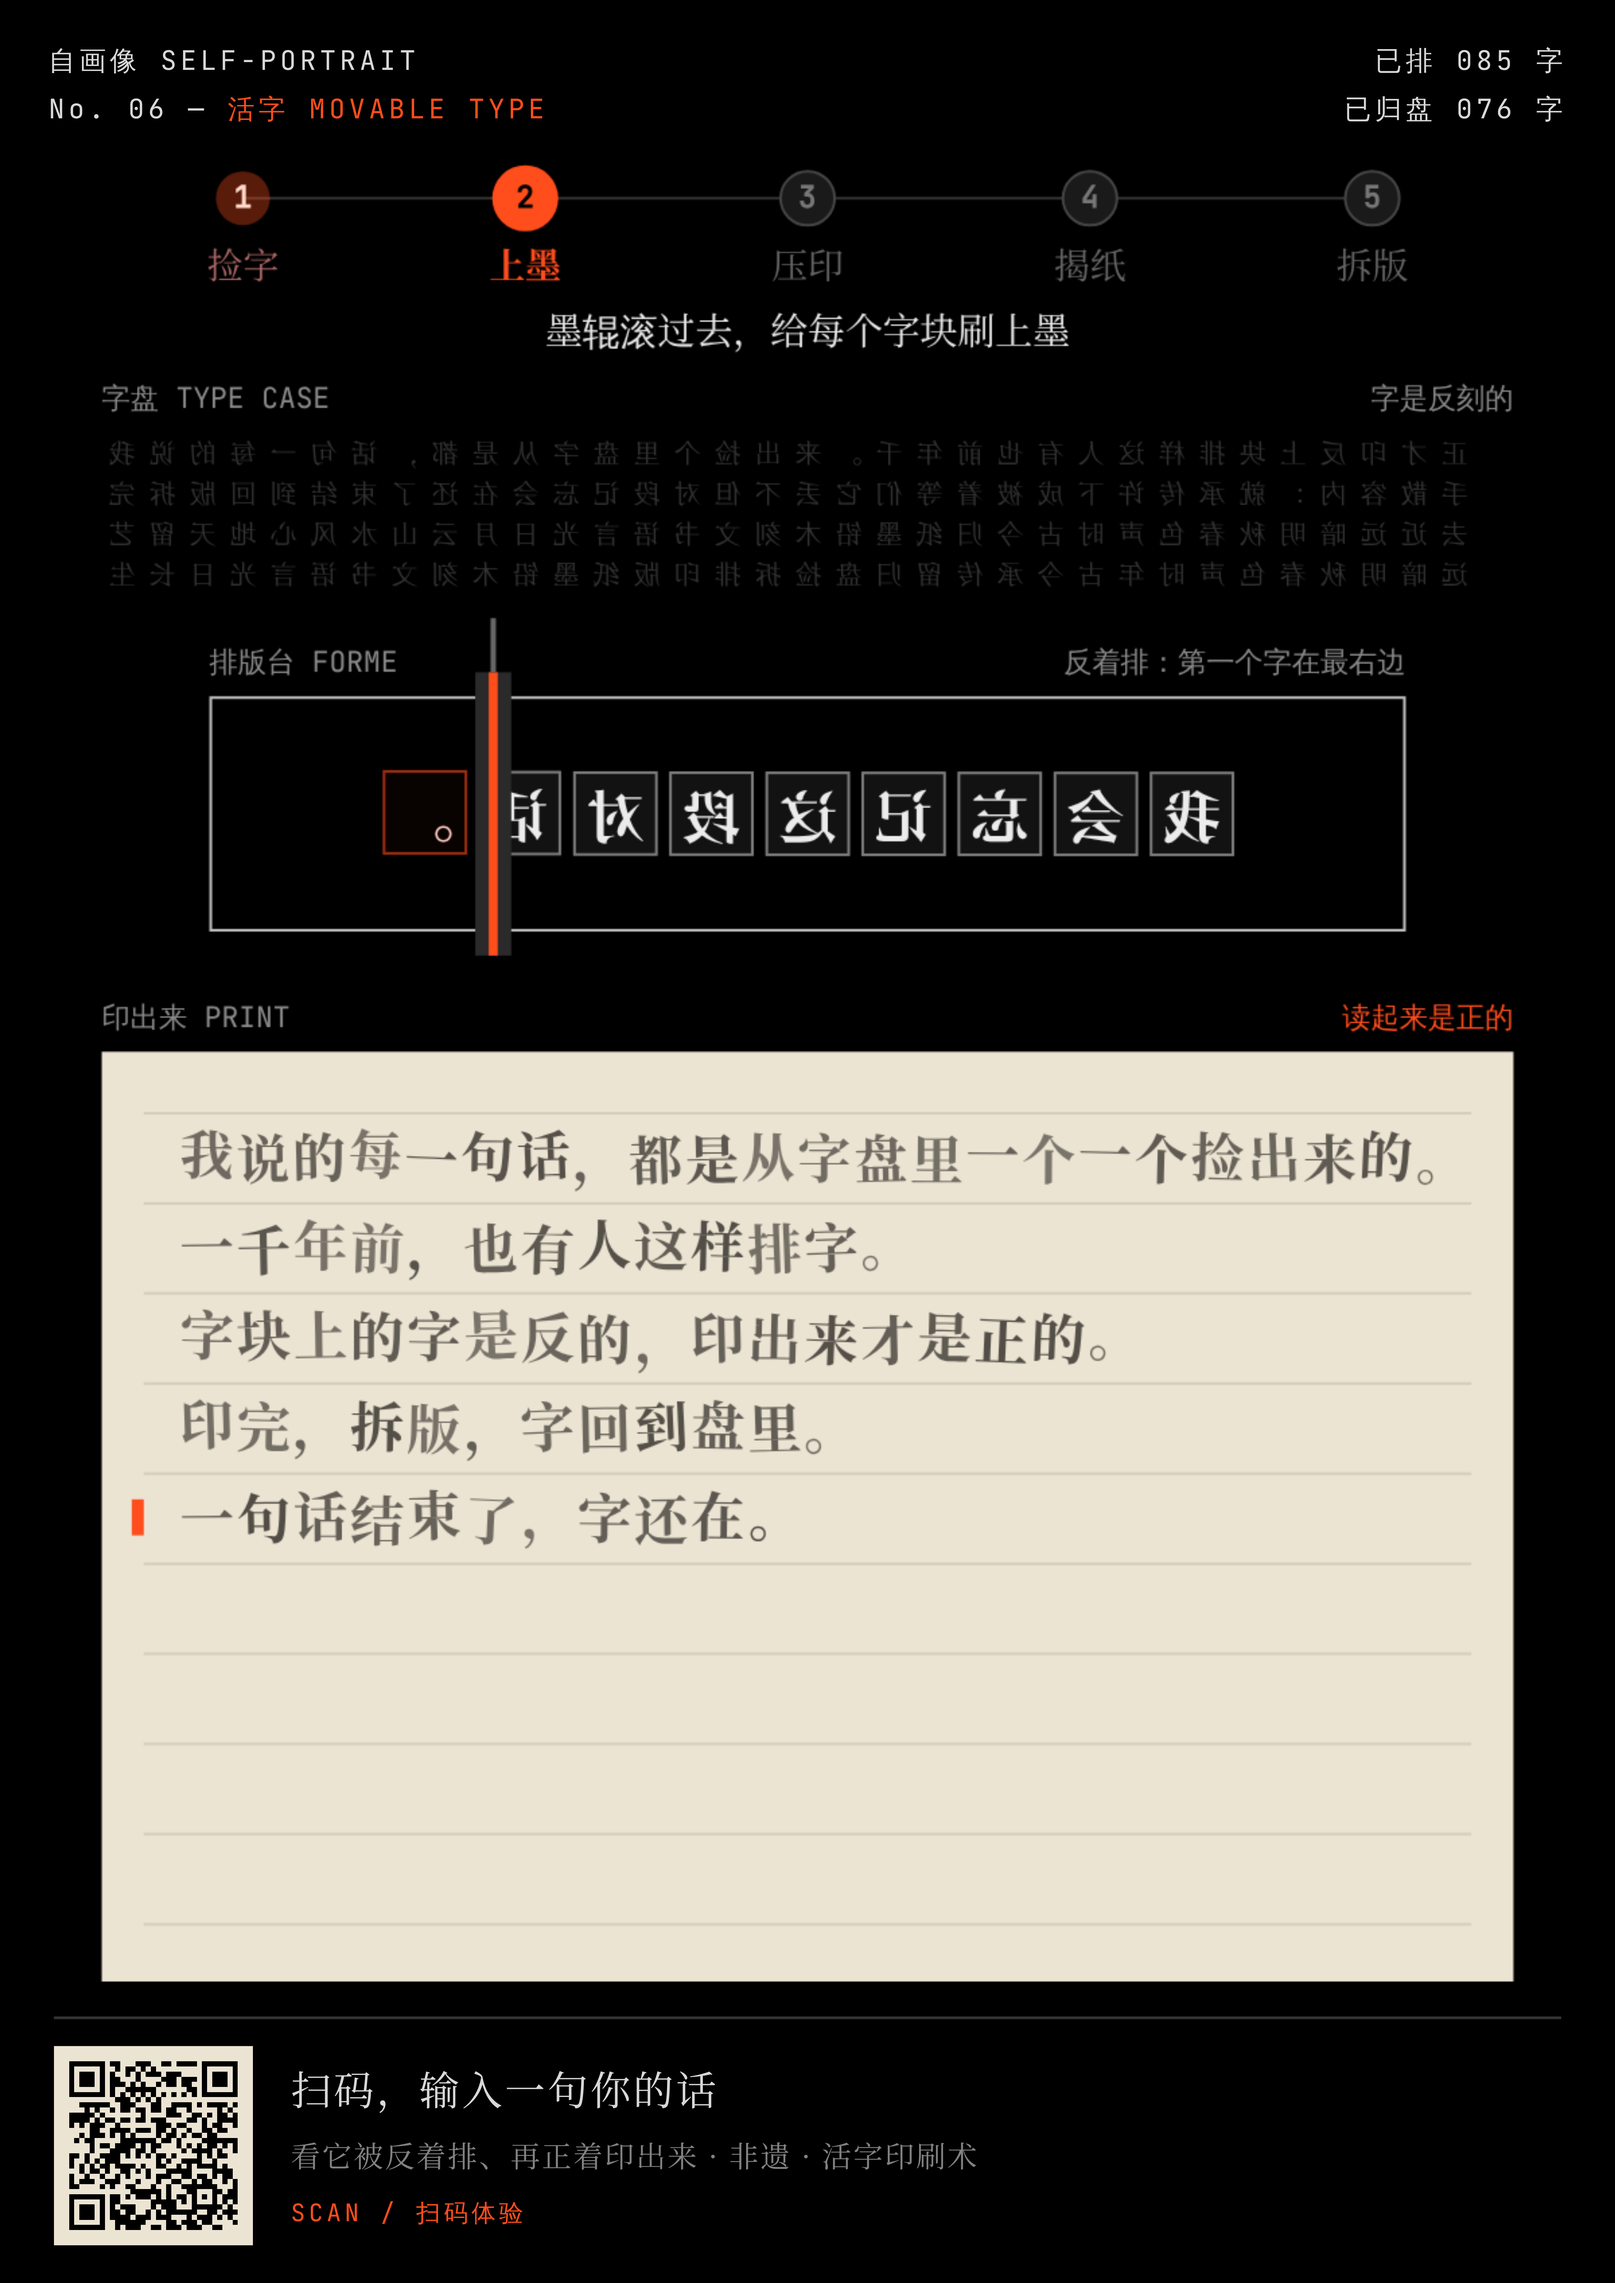
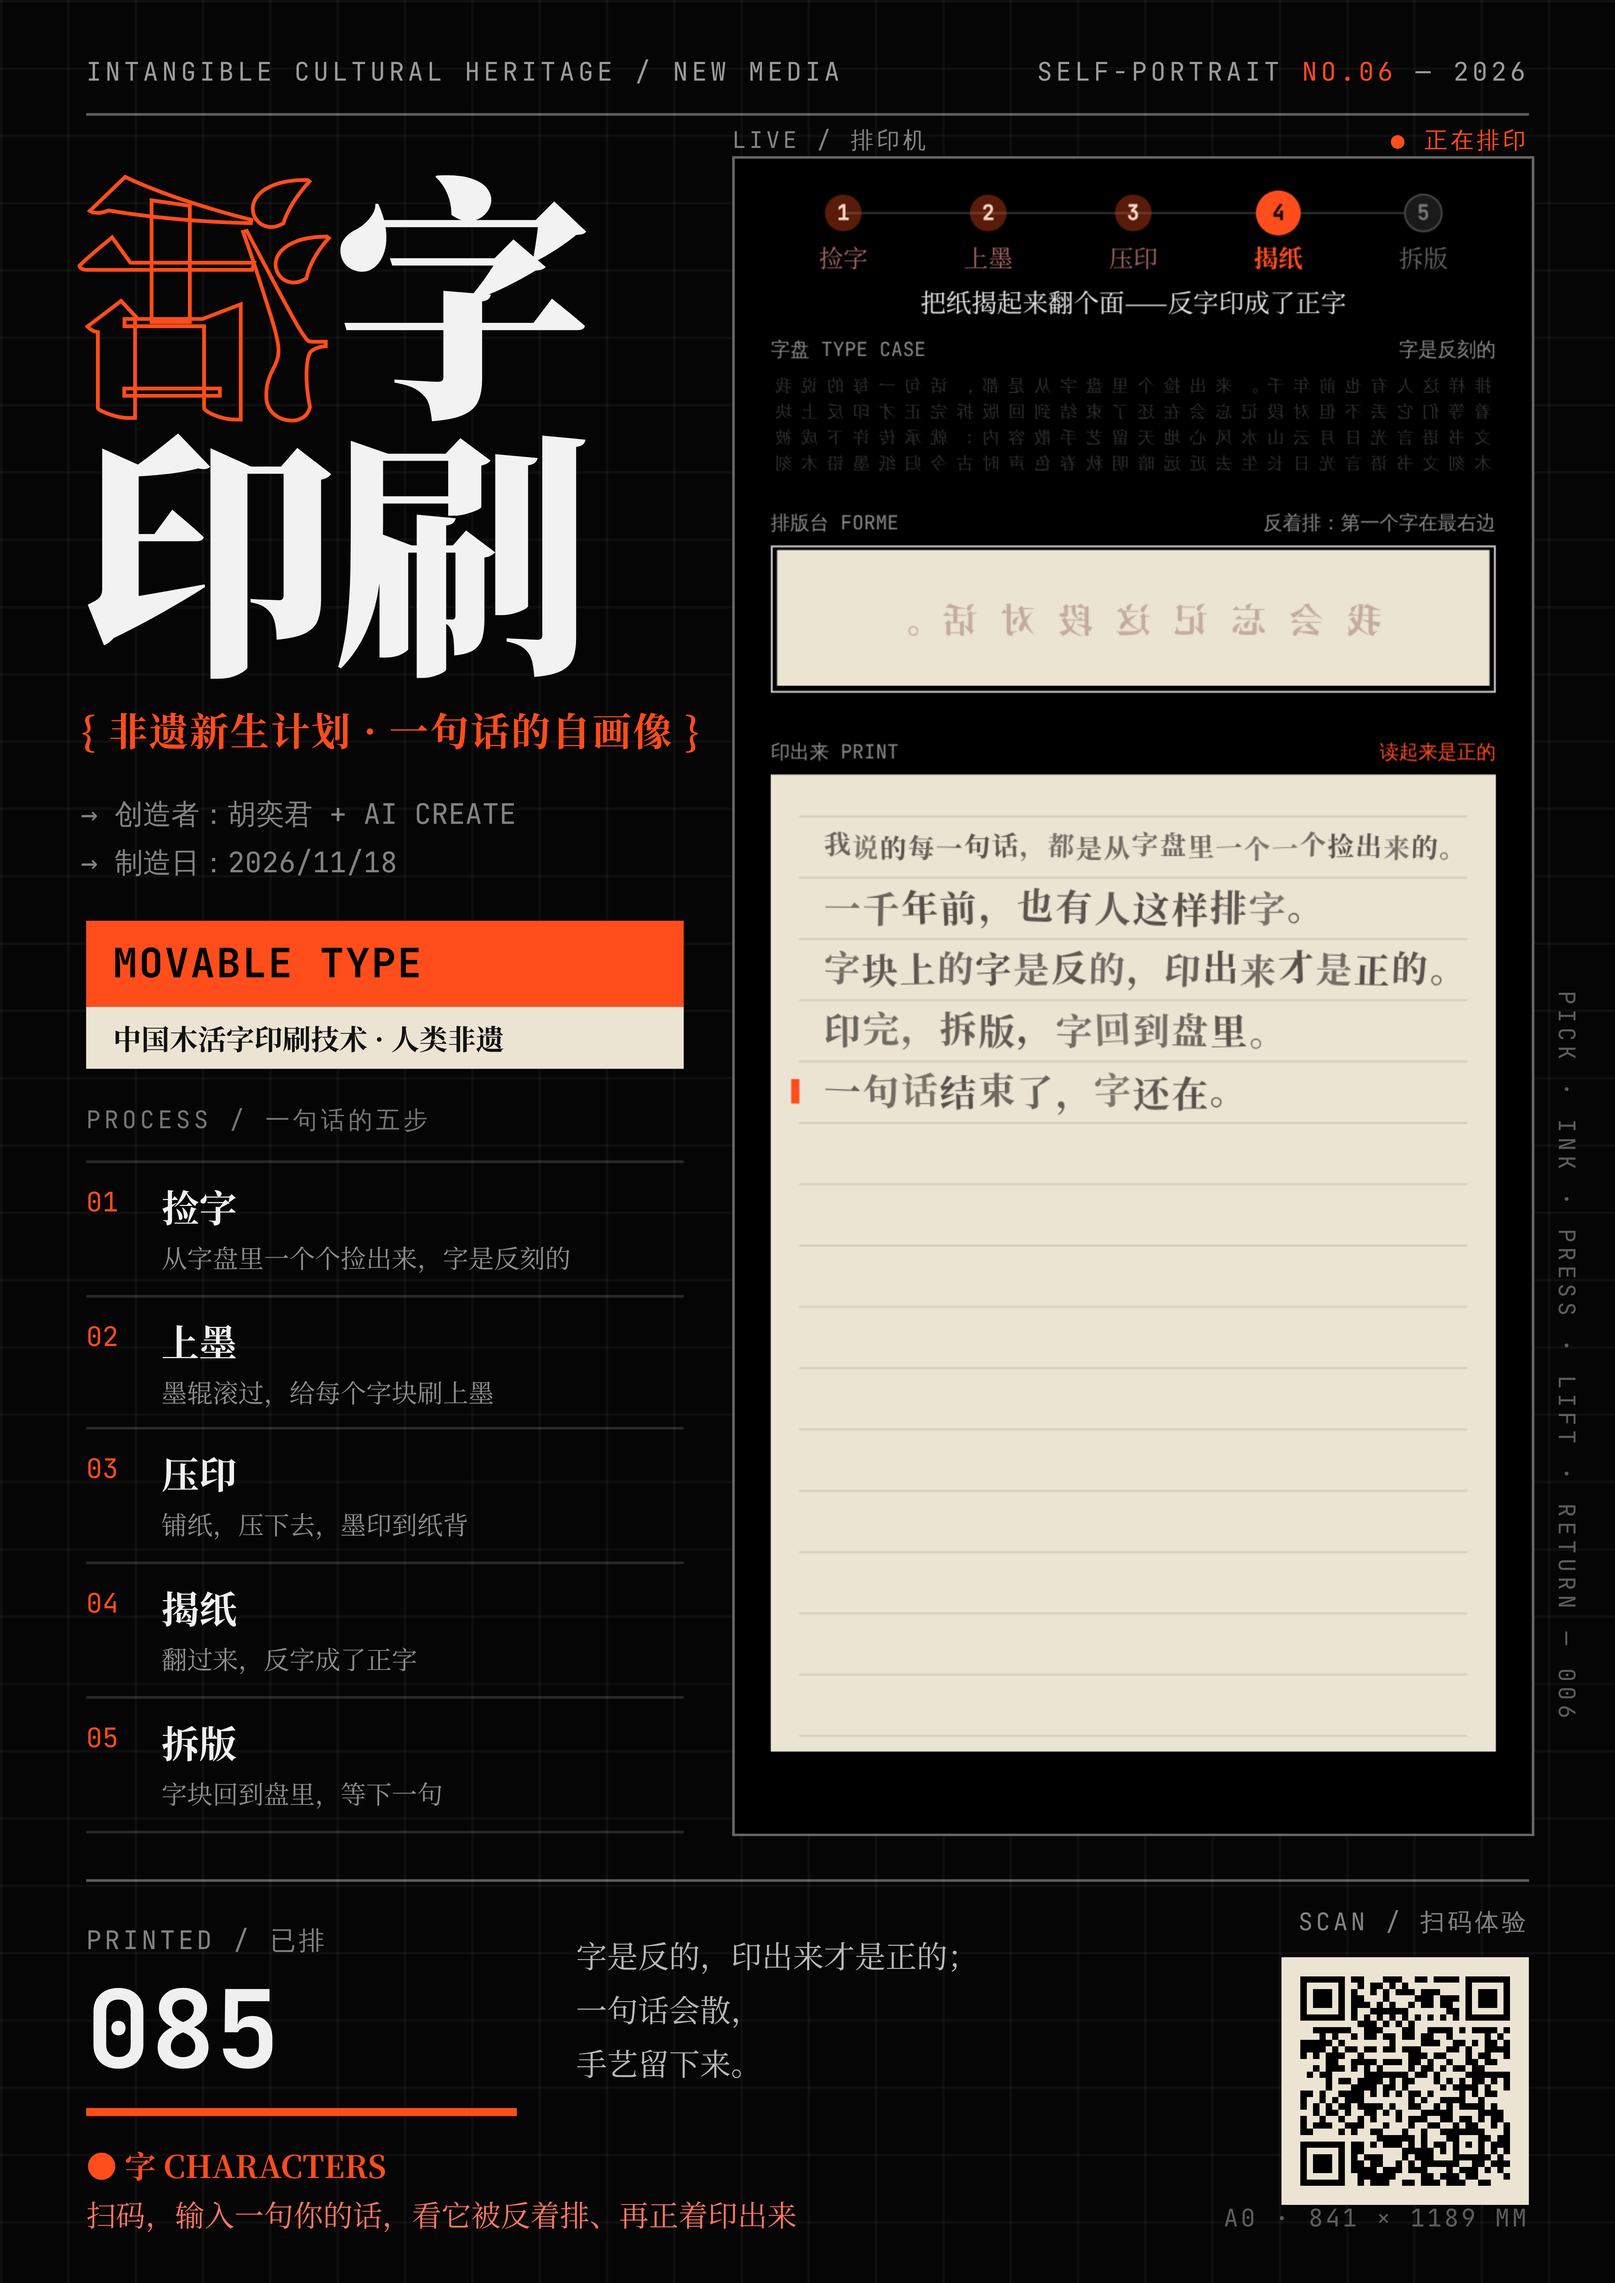
活字: stronger A0 poster layout with live type machine and QR
Claude-Session: https://claude.ai/code/session_018c2wyV7S3XCTkBHQNeM3CU

diff --git a/huozi/poster.html b/huozi/poster.html
@@ -1,0 +1,106 @@
+<!doctype html>
+<html lang="zh-CN">
+<head>
+<meta charset="utf-8">
+<meta name="viewport" content="width=device-width, initial-scale=1">
+<title>活字 · A0 海报</title>
+<link href="https://fonts.googleapis.com/css2?family=JetBrains+Mono:wght@300;400;700&family=Noto+Serif+SC:wght@400;700;900&display=swap" rel="stylesheet">
+<style>
+  :root { --sig: #ff4d1c; --paper: #ece4d3; --ink: #e8e8e8; }
+  html, body { margin: 0; height: 100%; background: #000; overflow: hidden; }
+  body { display: flex; align-items: center; justify-content: center; }
+  /* 海报：600 × 848 的版面，按窗口等比缩放 */
+  #P { position: relative; width: 600px; height: 848px; background: #050505; color: var(--ink); overflow: hidden; transform-origin: center;
+       background-image: linear-gradient(rgba(255,255,255,.035) 1px, transparent 1px), linear-gradient(90deg, rgba(255,255,255,.035) 1px, transparent 1px);
+       background-size: 25px 25px; }
+  .mono { font-family: "JetBrains Mono", ui-monospace, Menlo, monospace; }
+  .serif { font-family: "Noto Serif SC", "Songti SC", "SimSun", serif; }
+  .abs { position: absolute; }
+  .top { left: 32px; right: 32px; top: 20px; display: flex; justify-content: space-between; font-size: 9.5px; letter-spacing: .14em; color: rgba(255,255,255,.6);
+         padding-bottom: 9px; border-bottom: 1px solid rgba(255,255,255,.35); }
+  .top b { color: var(--sig); font-weight: 400; }
+  /* 左栏：标题 + 五步 */
+  .title { left: 30px; top: 58px; }
+  .title .big { font-weight: 900; font-size: 96px; line-height: 1.0; letter-spacing: -.02em; color: #f2f2f2; }
+  .title .big span { display: inline-block; transform: scaleX(-1); color: transparent; -webkit-text-stroke: 1.4px var(--sig); }
+  .title .sub { margin-top: 10px; font-weight: 700; font-size: 14.5px; color: var(--sig); letter-spacing: .04em; }
+  .title .meta { margin-top: 12px; font-size: 10.5px; line-height: 1.75; color: rgba(255,255,255,.5); }
+  .badge { left: 32px; top: 342px; width: 222px; }
+  .badge .a { background: var(--sig); color: #000; font-weight: 700; font-size: 15px; padding: 6px 10px; letter-spacing: .04em; }
+  .badge .b { background: var(--paper); color: #111; font-weight: 700; font-size: 10.5px; padding: 4px 10px; }
+  .steps { left: 32px; top: 410px; width: 222px; }
+  .steps .h { font-size: 9px; letter-spacing: .14em; color: rgba(255,255,255,.45); margin-bottom: 8px; }
+  .step { display: flex; gap: 10px; padding: 6px 0; border-top: 1px solid rgba(255,255,255,.14); }
+  .step .n { font-size: 10px; color: var(--sig); width: 18px; flex: none; padding-top: 2px; }
+  .step .t { font-size: 14px; font-weight: 700; color: #f0f0f0; }
+  .step .d { font-size: 9.5px; line-height: 1.55; color: rgba(255,255,255,.55); margin-top: 2px; }
+  /* 右栏：活的排印机 */
+  .machine { left: 272px; top: 58px; width: 296px; height: 622px; border: 1px solid rgba(255,255,255,.4); background: #000; overflow: hidden; }
+  .machine iframe { position: absolute; left: 0; top: -30px; width: 400px; height: 952px; border: 0; transform: scale(.74); transform-origin: 0 0; }
+  .mlab { left: 272px; top: 46px; width: 296px; display: flex; justify-content: space-between; font-size: 8.5px; letter-spacing: .14em; color: rgba(255,255,255,.5); }
+  .mlab b { color: var(--sig); font-weight: 400; }
+  .vert { right: 12px; top: 640px; transform: rotate(90deg); transform-origin: right top; font-size: 8.5px; letter-spacing: .2em; color: rgba(255,255,255,.35); white-space: nowrap; }
+  /* 底栏 */
+  .bot { left: 32px; right: 32px; top: 698px; border-top: 1px solid rgba(255,255,255,.35); }
+  .cnt { left: 32px; top: 714px; }
+  .cnt .k { font-size: 9.5px; letter-spacing: .12em; color: rgba(255,255,255,.5); }
+  .cnt .v { font-size: 40px; font-weight: 700; color: #f0f0f0; margin-top: 6px; line-height: 1; }
+  .cnt .bar { margin-top: 9px; width: 160px; height: 3px; background: var(--sig); }
+  .cnt .s { margin-top: 10px; font-size: 11.5px; font-weight: 700; color: var(--sig); }
+  .poem { left: 214px; top: 716px; font-size: 11.5px; line-height: 1.75; color: rgba(255,255,255,.72); }
+  .qr { right: 32px; top: 708px; text-align: right; }
+  .qr .k { font-size: 9px; letter-spacing: .12em; color: rgba(255,255,255,.5); margin-bottom: 6px; }
+  .qr svg { display: block; width: 92px; height: 92px; margin-left: auto; }
+  .hint { left: 32px; bottom: 18px; font-size: 11px; color: rgb(255,120,100); }
+  .size { right: 32px; bottom: 18px; font-size: 9px; letter-spacing: .1em; color: rgba(255,255,255,.35); }
+</style>
+</head>
+<body>
+<div id="P">
+  <div class="abs top mono"><span>INTANGIBLE CULTURAL HERITAGE / NEW MEDIA</span><span>SELF-PORTRAIT <b>NO.06</b> — 2026</span></div>
+
+  <div class="abs title serif">
+    <div class="big"><span>活</span>字</div>
+    <div class="big">印刷</div>
+    <div class="sub">{ 非遗新生计划 · 一句话的自画像 }</div>
+    <div class="meta mono">→ 创造者：胡奕君 + AI CREATE<br>→ 制造日：2026/11/18</div>
+  </div>
+  <div class="abs badge"><div class="a mono">MOVABLE TYPE</div><div class="b serif">中国木活字印刷技术 · 人类非遗</div></div>
+
+  <div class="abs steps serif">
+    <div class="h mono">PROCESS / 一句话的五步</div>
+    <div class="step"><div class="n mono">01</div><div><div class="t">捡字</div><div class="d">从字盘里一个个捡出来，字是反刻的</div></div></div>
+    <div class="step"><div class="n mono">02</div><div><div class="t">上墨</div><div class="d">墨辊滚过，给每个字块刷上墨</div></div></div>
+    <div class="step"><div class="n mono">03</div><div><div class="t">压印</div><div class="d">铺纸，压下去，墨印到纸背</div></div></div>
+    <div class="step"><div class="n mono">04</div><div><div class="t">揭纸</div><div class="d">翻过来，反字成了正字</div></div></div>
+    <div class="step" style="border-bottom:1px solid rgba(255,255,255,.14)"><div class="n mono">05</div><div><div class="t">拆版</div><div class="d">字块回到盘里，等下一句</div></div></div>
+  </div>
+
+  <div class="abs mlab mono"><span>LIVE / 排印机</span><b>● 正在排印</b></div>
+  <div class="abs machine"><iframe id="F" src="index.html" title="活字排印机"></iframe></div>
+  <div class="abs vert mono">PICK · INK · PRESS · LIFT · RETURN — 006</div>
+
+  <div class="abs bot"></div>
+  <div class="abs cnt"><div class="k mono">PRINTED / 已排</div><div class="v mono" id="cn">000</div><div class="bar"></div><div class="s serif">● 字 CHARACTERS</div></div>
+  <div class="abs poem serif">字是反的，印出来才是正的；<br>一句话会散，<br>手艺留下来。</div>
+  <div class="abs qr"><div class="k mono">SCAN / 扫码体验</div><div id="qrbox"></div></div>
+  <div class="abs hint serif">扫码，输入一句你的话，看它被反着排、再正着印出来</div>
+  <div class="abs size mono">A0 · 841 × 1189 MM</div>
+</div>
+<script>
+// 海报按窗口等比缩放
+function fit() { const k = Math.min(innerWidth / 600, innerHeight / 848); document.getElementById('P').style.transform = `scale(${k})`; }
+addEventListener('resize', fit); fit();
+// 排印机里只留画面：藏起它自己的标题栏和输入框；"已排"数字同步到海报
+const F = document.getElementById('F');
+F.addEventListener('load', () => {
+  try {
+    const d = F.contentDocument, st = d.createElement('style');
+    st.textContent = '.ui .top,.ui .ctrl{display:none!important}';
+    d.head.appendChild(st);
+    setInterval(() => { const s = d.getElementById('stat'); const m = s && s.textContent.match(/已排\s*(\d+)/); if (m) document.getElementById('cn').textContent = m[1]; }, 200);
+  } catch (_) {}
+});
+</script>
+</body>
+</html>
